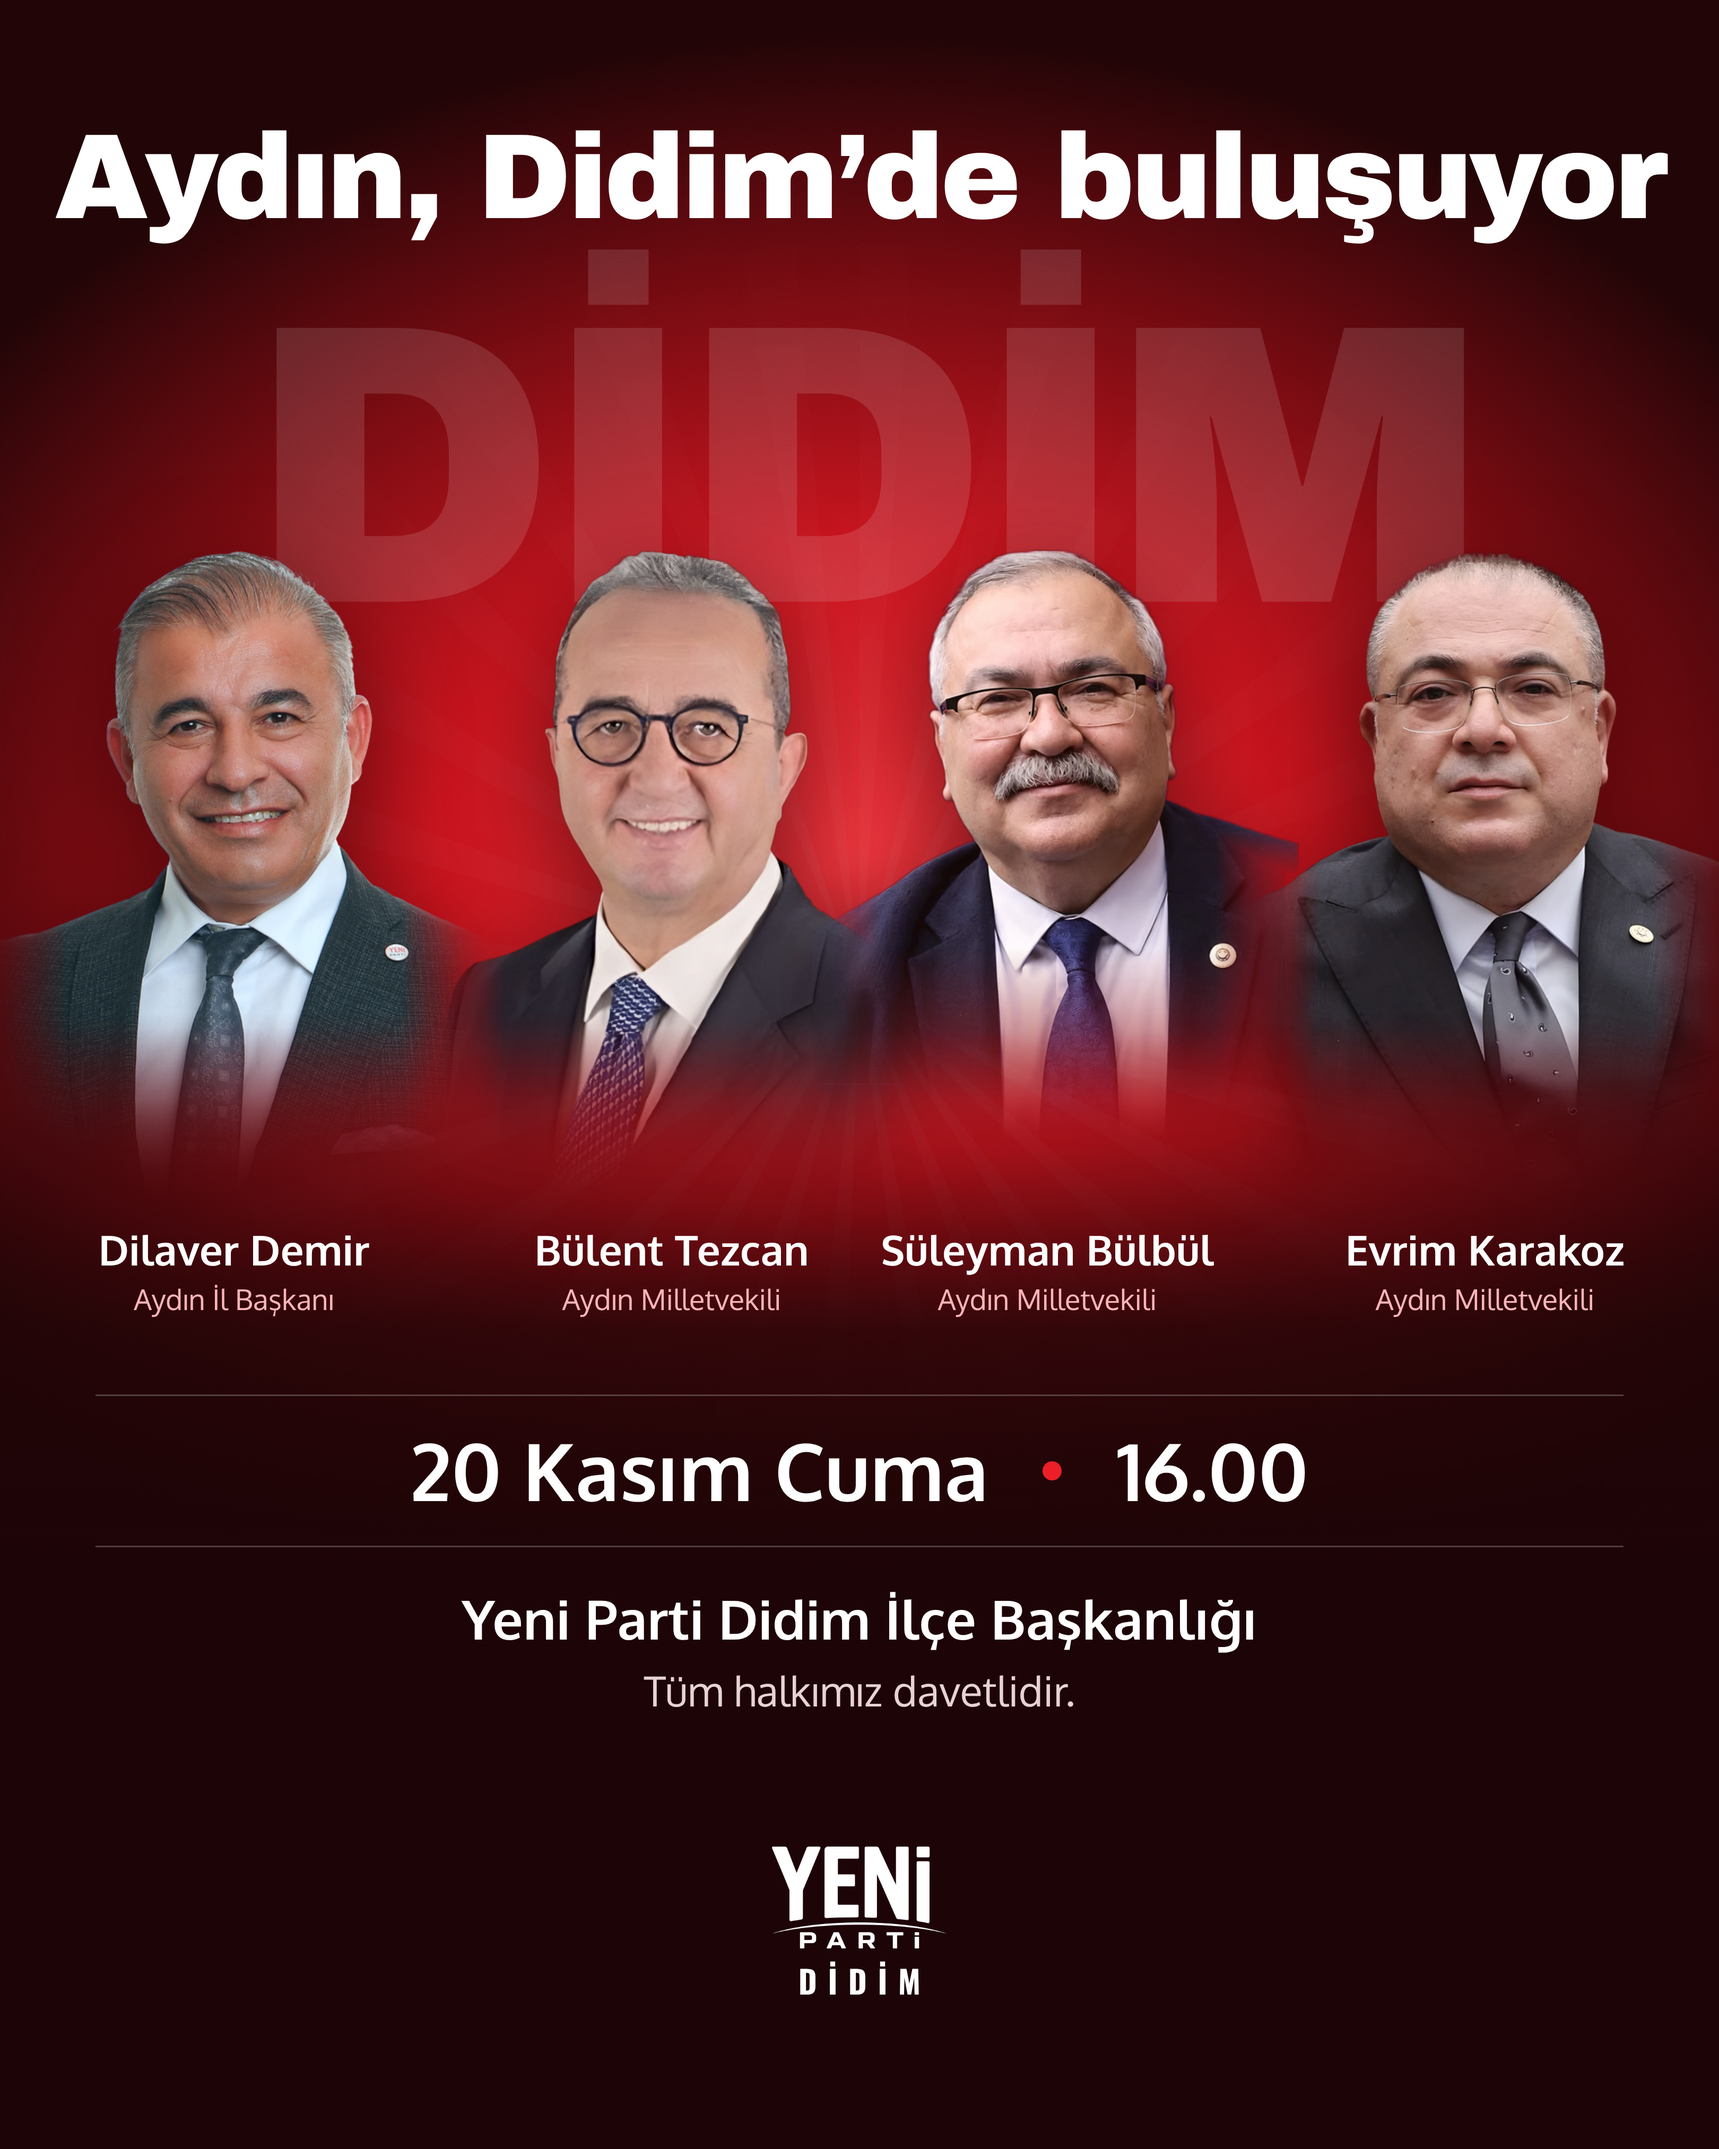
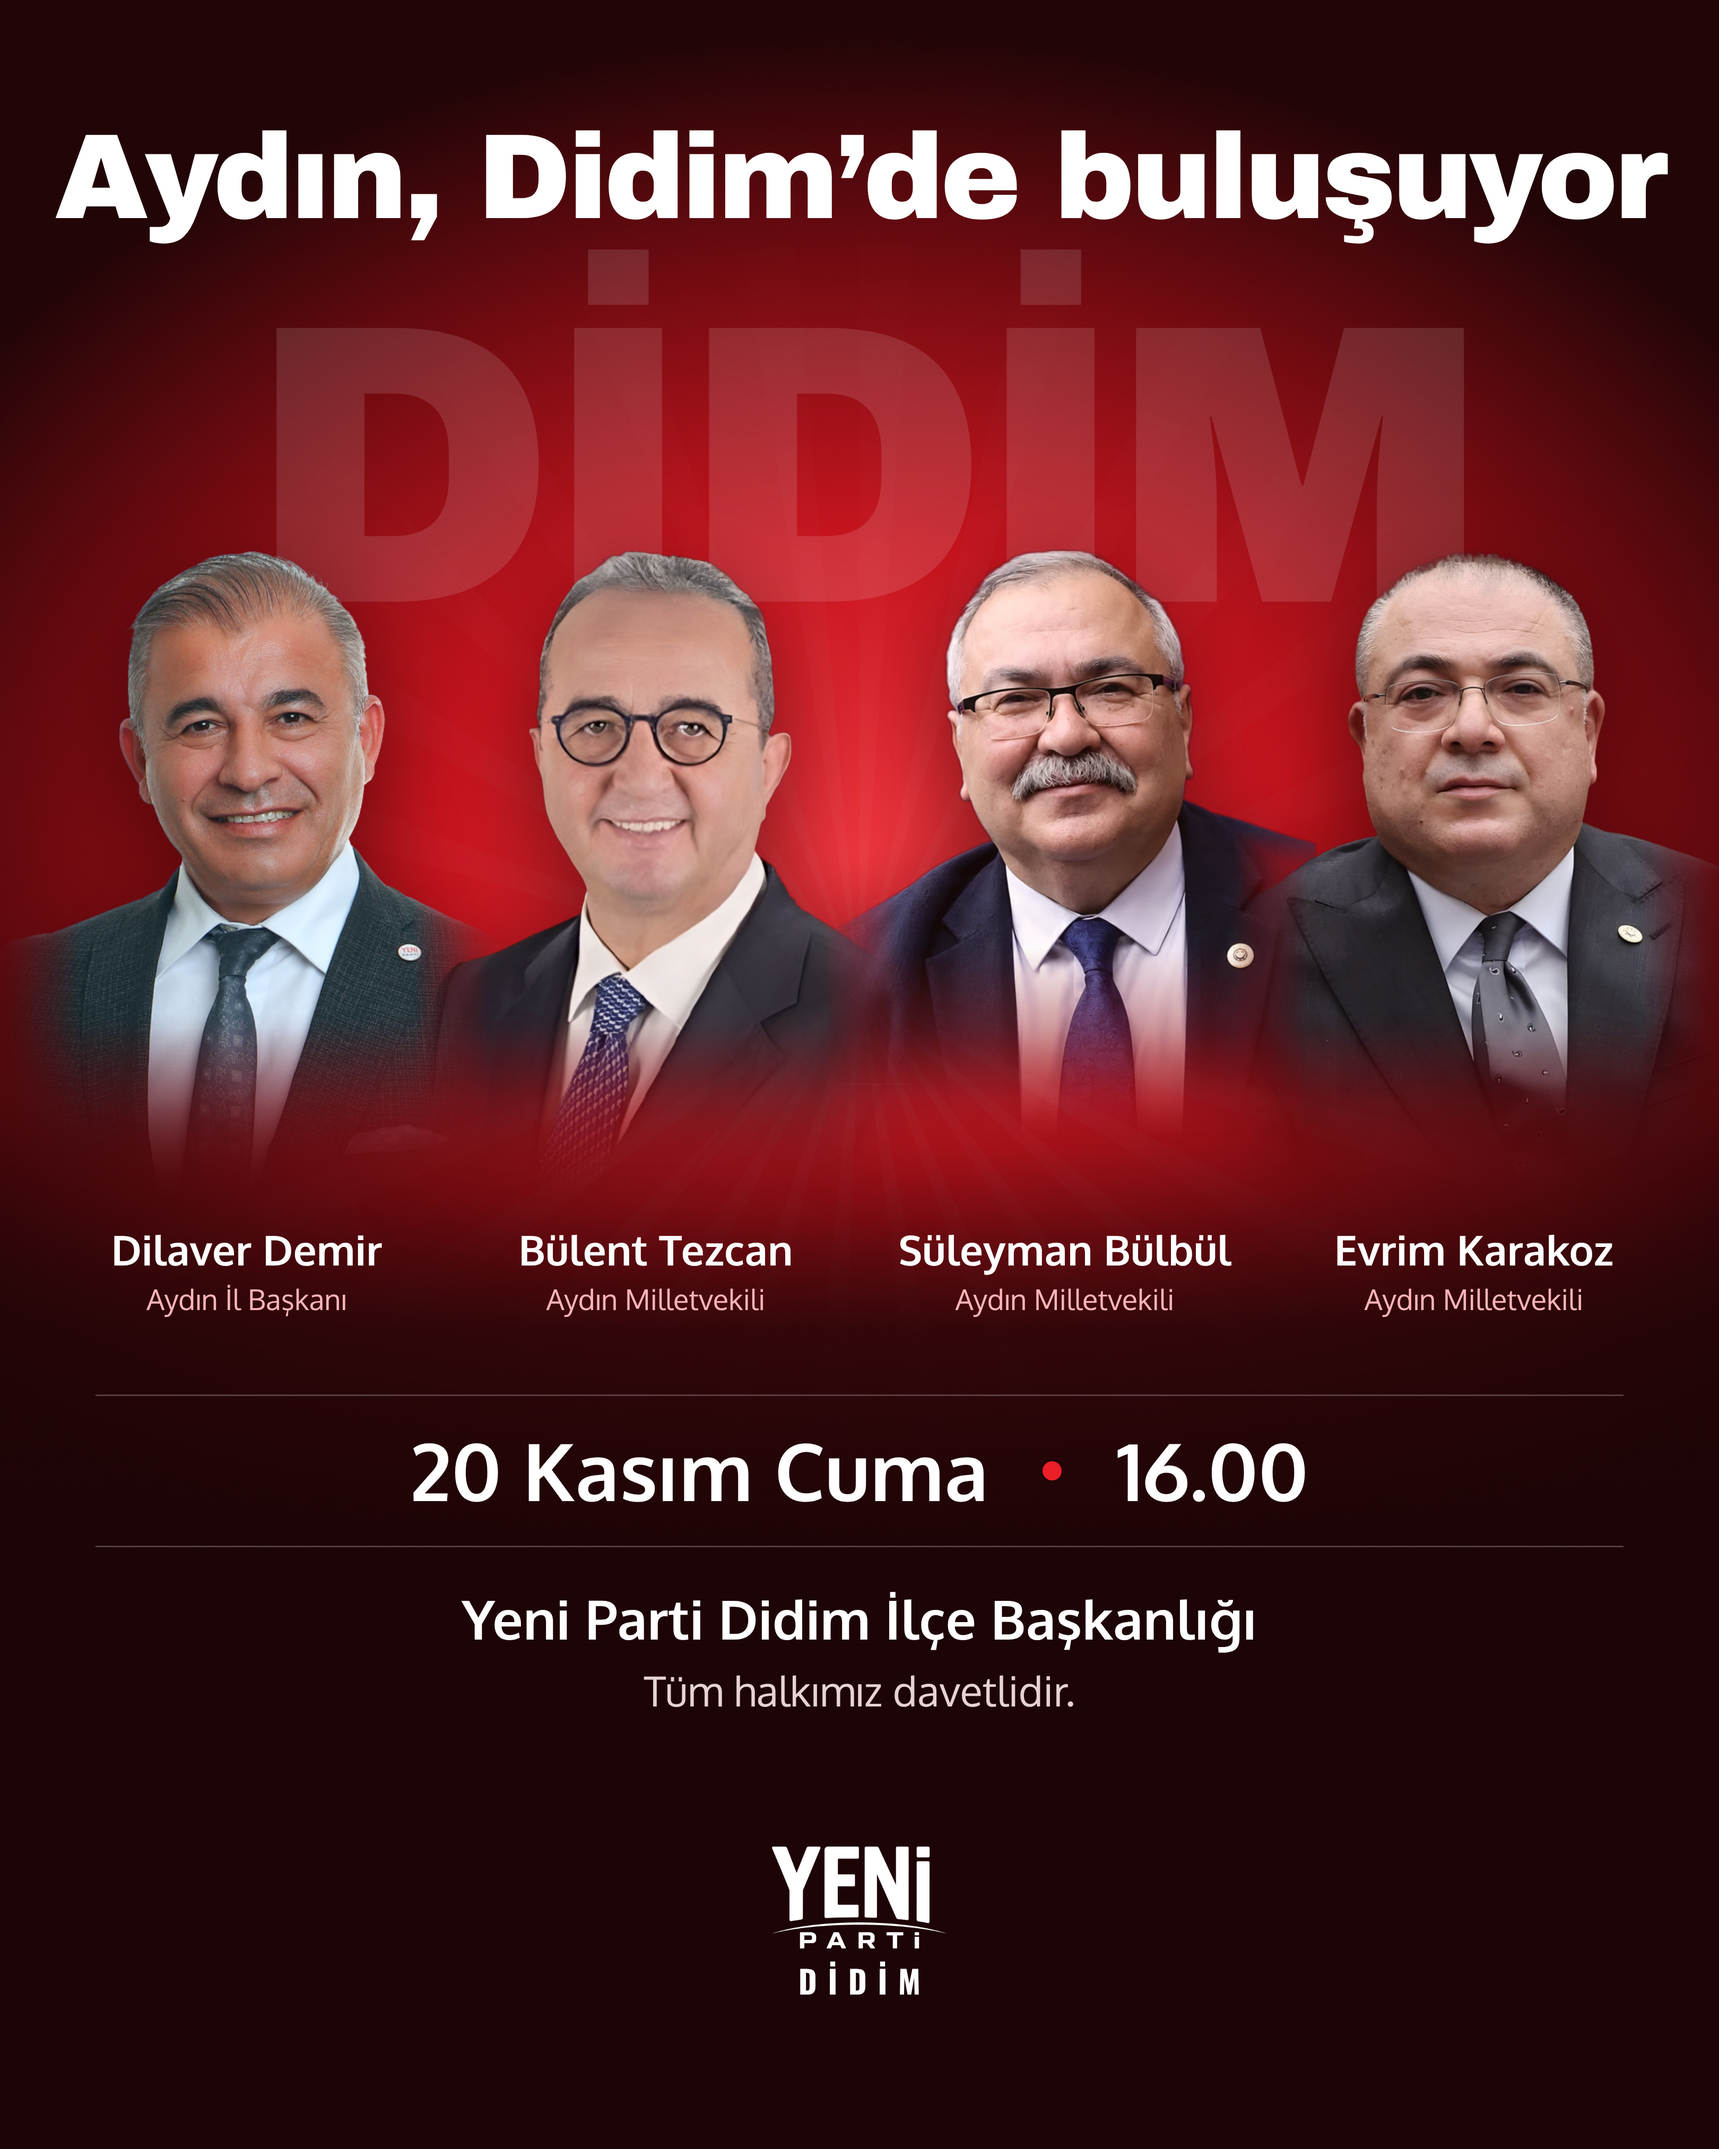
Vekil ziyareti: aralıklar eşitlendi
Claude-Session: https://claude.ai/code/session_01SatttGbgBLoCnk9KGLypWv

diff --git a/tasarim/kisisel/vekil-ziyaret/grup.html b/tasarim/kisisel/vekil-ziyaret/grup.html
@@ -28,8 +28,8 @@ background:radial-gradient(700px 520px at 50% 40%,#F2363E 0,#C8141E 38%,#6E0A10 
 <div class="arka">DİDİM</div>
 <div class="ust"><h1>Aydın, Didim’de buluşuyor</h1></div>
 
-<img class="p" src="demir-s.png" style="left:-18px;top:316px;width:330px;z-index:0"><img class="p" src="tezcan-s.png" style="left:257px;top:316px;width:330px;z-index:2"><img class="p" src="bulbul-s.png" style="left:493px;top:316px;width:330px;z-index:2"><img class="p" src="karakoz-s.png" style="left:768px;top:316px;width:330px;z-index:0"><div class="alt"></div>
-<div class="isimler"><div style="left:147px"><b>Dilaver Demir</b><span>Aydın İl Başkanı</span></div><div style="left:422px"><b>Bülent Tezcan</b><span>Aydın Milletvekili</span></div><div style="left:658px"><b>Süleyman Bülbül</b><span>Aydın Milletvekili</span></div><div style="left:933px"><b>Evrim Karakoz</b><span>Aydın Milletvekili</span></div></div>
+<img class="p" src="demir-s.png" style="left:-10px;top:316px;width:330px;z-index:0"><img class="p" src="tezcan-s.png" style="left:247px;top:316px;width:330px;z-index:2"><img class="p" src="bulbul-s.png" style="left:504px;top:316px;width:330px;z-index:2"><img class="p" src="karakoz-s.png" style="left:761px;top:316px;width:330px;z-index:0"><div class="alt"></div>
+<div class="isimler"><div style="left:155px"><b>Dilaver Demir</b><span>Aydın İl Başkanı</span></div><div style="left:412px"><b>Bülent Tezcan</b><span>Aydın Milletvekili</span></div><div style="left:669px"><b>Süleyman Bülbül</b><span>Aydın Milletvekili</span></div><div style="left:926px"><b>Evrim Karakoz</b><span>Aydın Milletvekili</span></div></div>
 <div class="bilgi"><b>20 Kasım Cuma</b><i></i><b>16.00</b></div>
 <div class="yer">Yeni Parti Didim İlçe Başkanlığı<small>Tüm halkımız davetlidir.</small></div>
 <div class="logo"><img src="yp-beyaz.png"><span>DİDİM</span></div>
